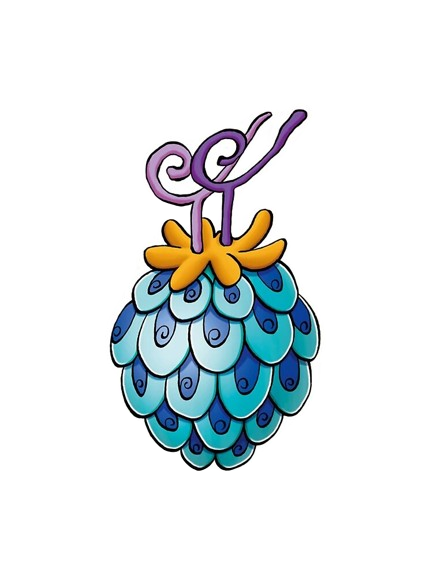
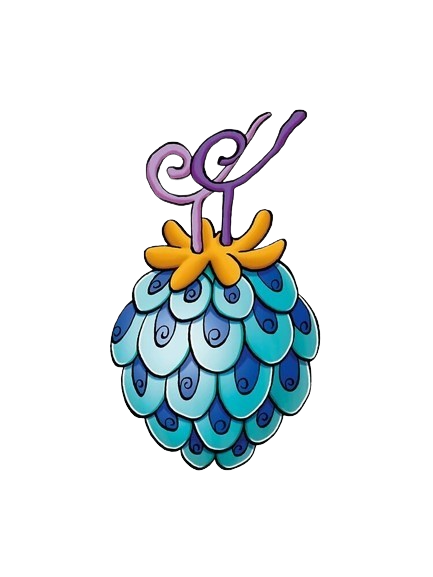
fixed fruit images, toyed with search function, and added content to featured article
need to add images to featured article and add a footer

diff --git a/pages/search.js b/pages/search.js
@@ -1,0 +1,61 @@
+// Function to perform the search
+function performSearch(searchQuery) {
+    // Clear previous search results
+    clearSearchResults();
+
+    // Get all HTML pages on the website
+    let pages = document.querySelectorAll('a[href$=".html"]');
+
+    // Iterate through each page
+    pages.forEach(page => {
+        // Fetch the content of the page
+        fetch(page.href)
+            .then(response => response.text())
+            .then(html => {
+                // Check if the search query exists in the page content
+                if (html.includes(searchQuery)) {
+                    // Add the page URL to the search results
+                    displaySearchResult(page.href);
+                }
+            })
+            .catch(error => console.error('Error fetching page:', error));
+    });
+}
+
+// Function to display a single search result
+function displaySearchResult(url) {
+    // Create a list item to display the search result
+    let listItem = document.createElement('li');
+    listItem.textContent = url;
+
+    // Append the list item to the search results list
+    document.getElementById('searchResults').appendChild(listItem);
+}
+
+// Function to clear search results
+function clearSearchResults() {
+    // Remove all child elements from the search results list
+    let searchResultsList = document.getElementById('searchResults');
+    while (searchResultsList.firstChild) {
+        searchResultsList.removeChild(searchResultsList.firstChild);
+    }
+}
+
+// Function to handle search form submission
+function handleSearch() {
+    // Get the search query from the input field
+    let searchQuery = document.getElementById('searchInput').value;
+
+    // Call the performSearch function with the search query
+    performSearch(searchQuery);
+}
+
+// Add event listener to the search button
+document.getElementById('searchButton').addEventListener('click', handleSearch);
+
+// Optionally, you can also trigger the search function when the user presses "Enter" in the input field
+document.getElementById('searchInput').addEventListener('keypress', function(event) {
+    if (event.key === 'Enter') {
+        handleSearch();
+    }
+});

diff --git a/scripts/home.js b/scripts/home.js
@@ -3,9 +3,9 @@ window.onload = function() {
     function displayRandomArticle() {
         // Mock data for demonstration
         const articles = [
-            { title: "Article 1", content: "Content of article 1", link: "#" },
-            { title: "Article 2", content: "Content of article 2", link: "#" },
-            { title: "Article 3", content: "Content of article 3", link: "#" }
+            { title: "Luffy", content: "Luffy is the main protagonist in the tv show One Piece. He always has a smile on his face as he continues on his adventure to become the Pirate King. In search of the One Piece to achieve his goal, he makes many of friends, some of which join his crew in pursuit of their own dreams.", link: "../pages/luffy.html" },
+            { title: "Zoro", content: "Zoro is a swordsman on his journey to beceome the World's Greatest Swordsman, a title currently held by <a href='../pages/mihawk.html'>Dracule Mihawk</a>. Additonally, Zoro is the Vice Captain of the Strawhat Pirates as he was the second-ever member. He is most known for his unique three-sword style.", link: "../pages/Zoro.html" },
+            { title: "Strawhat Pirates", content: "The Strawhat Pirates are a group of fearsome pirates led by their captain, <a href='../pages/luffy.html'>Monkey. D Luffy</a>. After 2 years, they have gained numerous allies and Luffy has even attained the title Emperor of the Sea.", link: "../pages/strawhats.html" }
         ];
 
         // Select a random article

diff --git a/pages/home.html b/pages/home.html
@@ -13,7 +13,12 @@
             <header>
                 <div class="container2">
                     <img src="../images/OP-logo.png" alt="One Piece Logo" class="logo">
-                    <input type="text" id="search" placeholder="Search...">
+                    <input type="text" id="searchInput" placeholder="Search...">
+
+                    <!-- Search results display area -->
+                    <ul id="searchResults"></ul>
+
+                    <script src="search.js"></script>
                 </div>
             </header>
         
